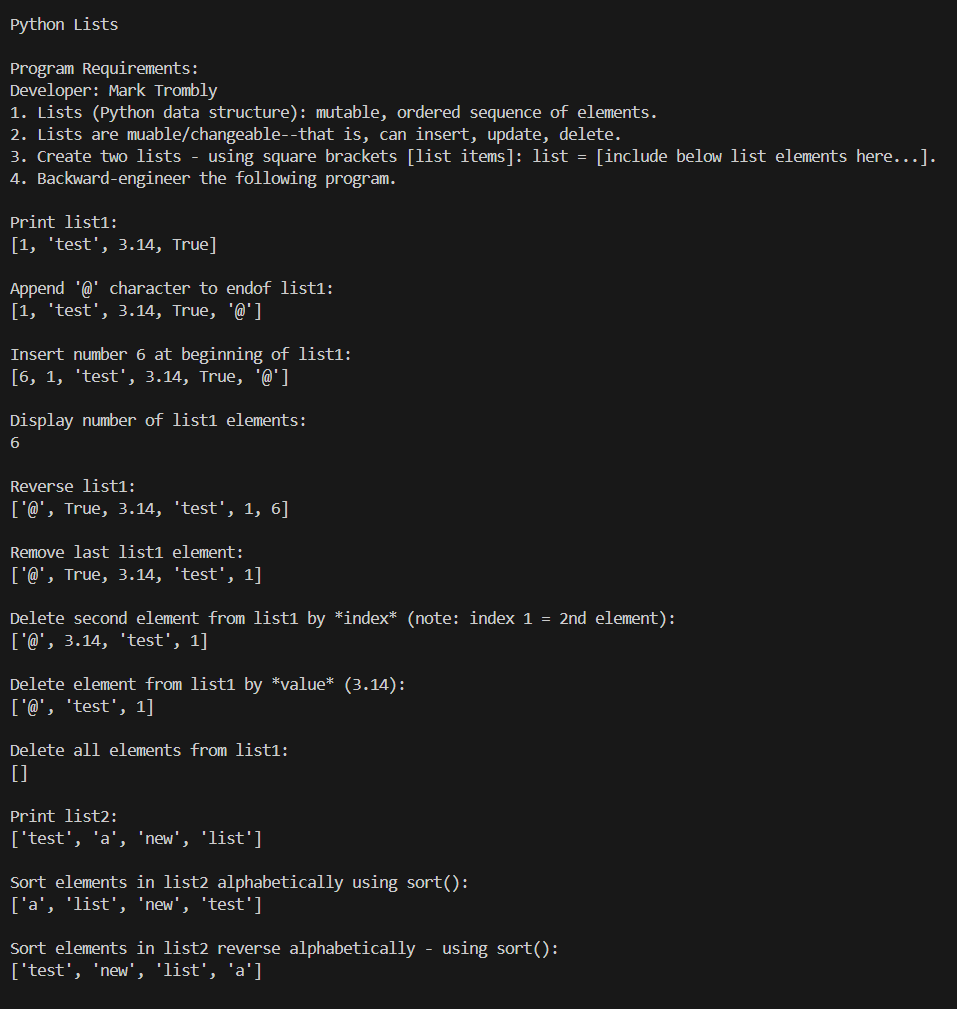
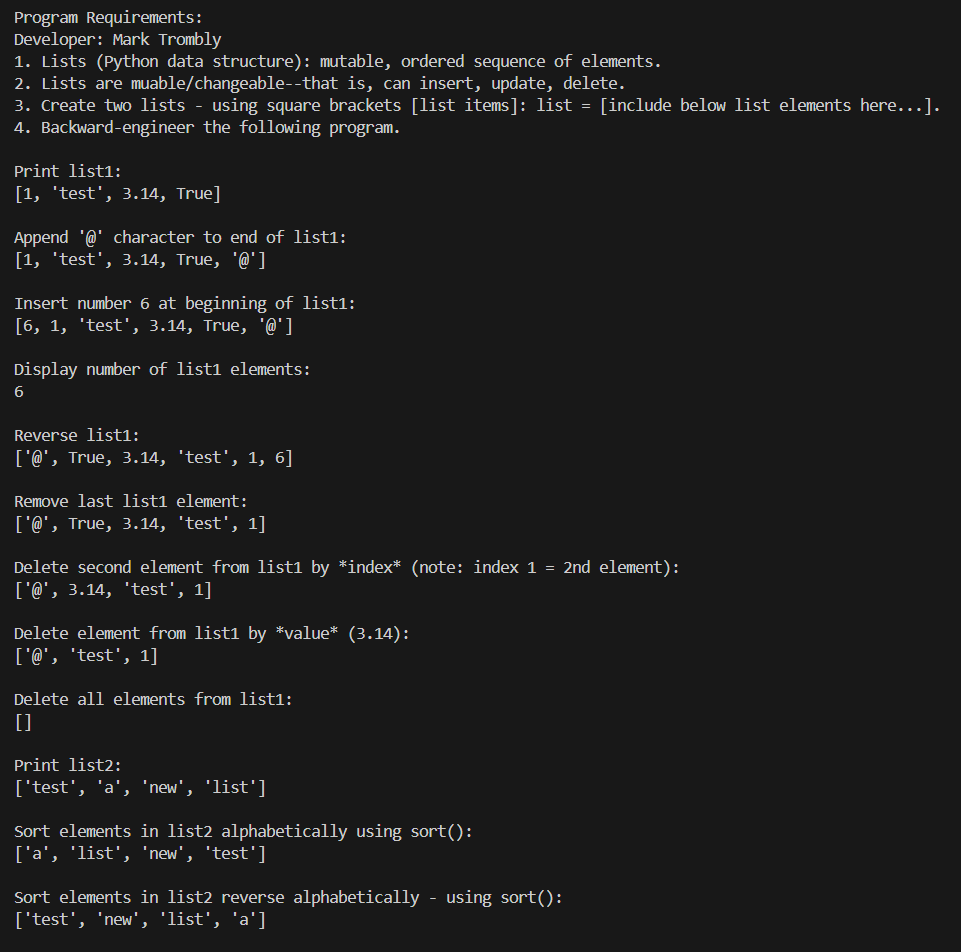
Assignment #2 skillsets update

diff --git a/skillsets/s3_sets/main.py b/skillsets/s3_sets/main.py
@@ -17,9 +17,9 @@ print("\nProgram Requirements:\n"
     + "Developer: Mark Trombly\n"
     + "1. Sets (Python data structure): mutable, heterogeneous, unordered sequence of elements, CANNOT contain duplicate values.\n"
     + "2. Sets are mutable/changeable--that is, can insert, update, delete.\n"
-    + "3. While setsa re mutable/changeable, they *cannot* contain other mutable items like list, set, or dictionary**\n"
-    + "\tthat is, elements contained in set must be immutable."
-    + "4. Also, since sets are unordered, CANNOT use indexing (or, slicing) to access, update, or delete elemets.\"\n"
+    + "3. While sets are mutable/changeable, they *cannot* contain other mutable items like list, set, or dictionary--\n"
+    + "\tthat is, elements contained in set must be immutable.\n"
+    + "4. Also, since sets are unordered, CANNOT use indexing (or, slicing) to access, update, or delete elements.\"\n"
     + "5. Two methods to create sets:\n"
     + "\ta. Create set using curly brackets {set}: set1 = {include below set elements here...}\n"
     + "\tb. Create set using set() function: set1 = set(<iterable>)\n"
@@ -67,11 +67,11 @@ functions.setPrint(set1)
 
 # Display number of set1 elements
 print("\nDisplay number of set1 elements:")
-functions.setPrintTyp(set1)
+functions.setPrintLen(set1)
 
 # Display updated set elements
 print("\nDisplay updated set1 elements:"
-      + "\nNote: UPdated with following values: 1, 2, 3, 4"
+      + "\nNote: Updated with following values: 1, 2, 3, 4"
       + "\nNote: Sets can ONLY contain unique elements! (Note: True=1, and value 2 already exist!)")
 set1.add(1)
 set1.add(2)
@@ -101,7 +101,7 @@ functions.setPrint(set1)
 print("\nLength of set1:")
 functions.setPrintLen(set1)
 
-print("\nNote: When deleting set element that doesn't exist, discard() ignores it, but remove() raises KeEror!")
+print("\nNote: When deleting set element that doesn't exist, discard() ignores it, but remove() raises KeyEror!")
 
 # Display minimum value (Note: True=1)
 print("\nDisplay minimum value (Note: True=1)")

diff --git a/skillsets/s2_tuples/main.py b/skillsets/s2_tuples/main.py
@@ -12,7 +12,7 @@ print("\nProgram Requirements:\n"
     + "1. Tuples (Python data structure): *immutable* (cannot be changed!), ordered sequence of elements.\n"
     + "2. Tuples are immutable/unchangeable--that is, cannot insert, update, delete.\n"
     + "\tNote: can reassign or delete an *entire* tuple--but, *not* individual items or slices.\n"
-    + "3. Create tuple using parentheses (tuple): tuple = (include below list elements here...).\n"
+    + "3. Create tuple using parentheses (tuple): tuple = (include below list elements here...)\n"
     + "4. Reassign tuple with, and w/o parentheses (), aka tuple \"packing.\"\n"
     + "5. Use tuple (unpacking), that is, assign values from tuple to sequence of variables: elem1, elem2, elem3, elem4 = my_tuple\n"
     + "6. Backward-engineer the following program.\n")
@@ -22,11 +22,11 @@ print("Print my_tuple:")
 functions.tuPrint(my_tuple)
 
 # Print my_tuple unpacking:
-print("Print my_tuple unpacking:")
+print("\nPrint my_tuple unpacking:")
 elem1, elem2, elem3, elem4 = functions.tuUnpack(my_tuple)
-print(f"elem1={elem1}"
-      +f" elem2={elem2}"
-      +f" elem3={elem3}"
+print(f"elem1={elem1},"
+      +f" elem2={elem2},"
+      +f" elem3={elem3},"
       +f" elem4={elem4}")
 
 # Display number of my_tuple elements

diff --git a/skillsets/s1_lists/main.py b/skillsets/s1_lists/main.py
@@ -20,7 +20,7 @@ print("Print list1:")
 functions.lsPrint(list1)
 
 # Append '@' to end of list1
-print("\nAppend '@' character to endof list1:")
+print("\nAppend '@' character to end of list1:")
 functions.lsAppend(list1, "@")
 functions.lsPrint(list1)
 
